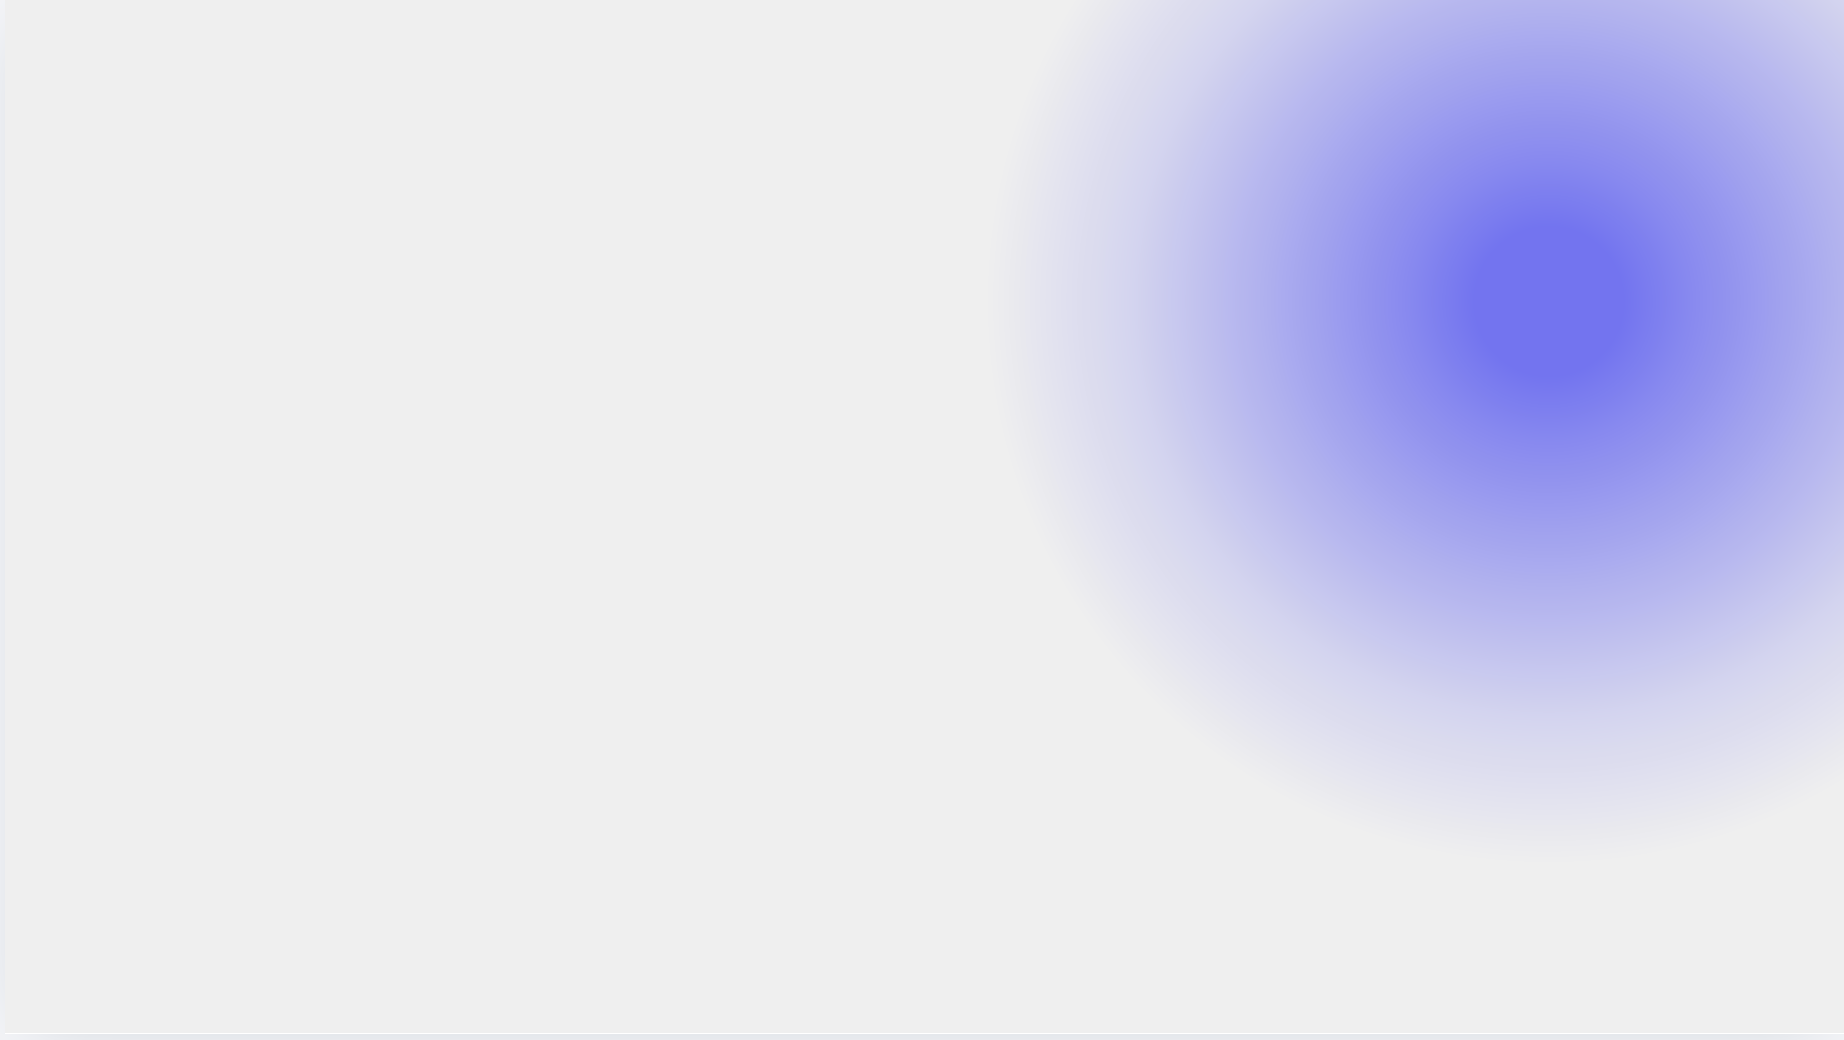
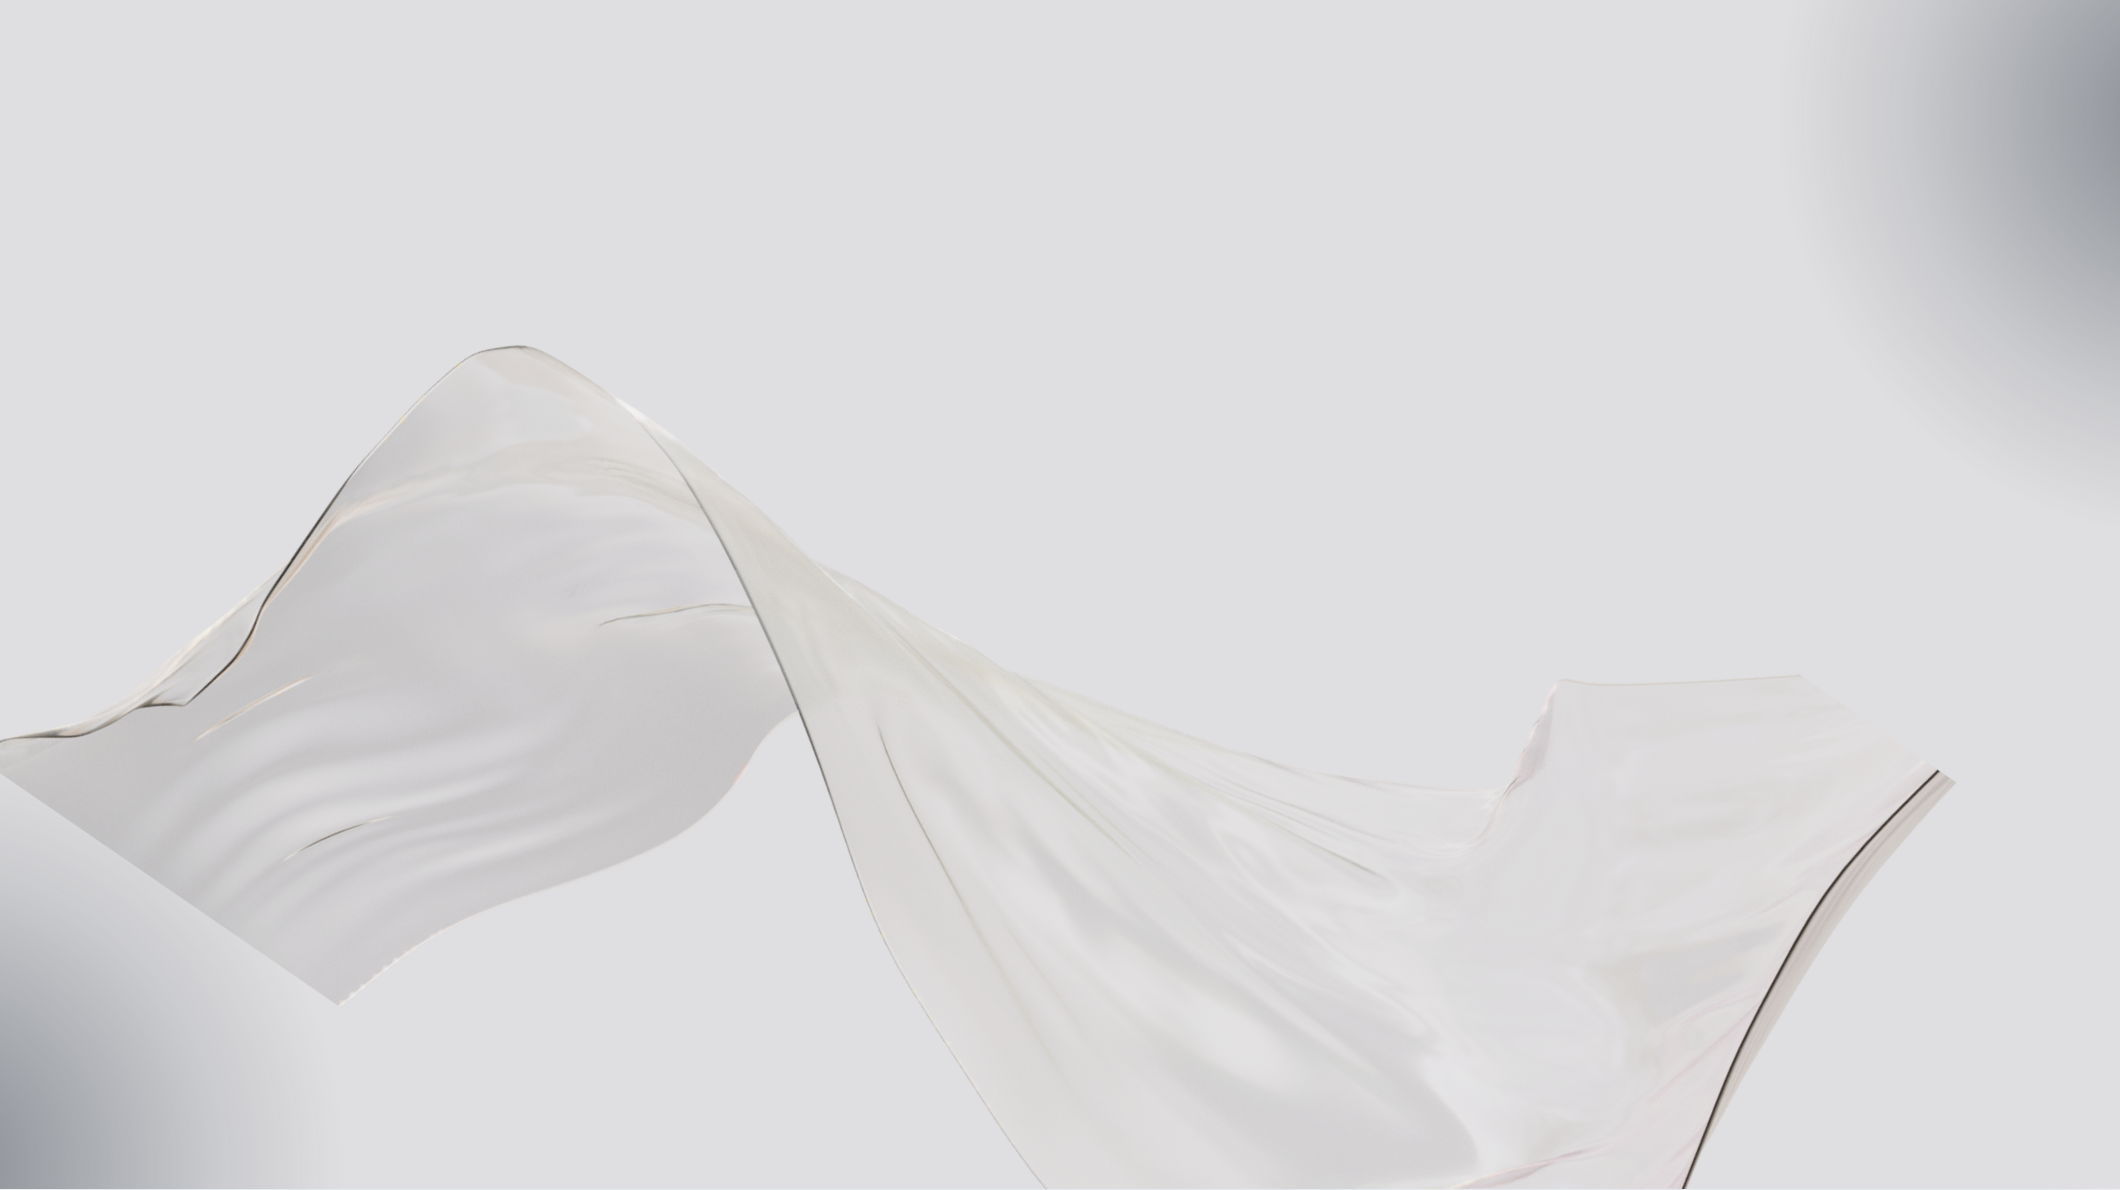
TQ

diff --git a/lib/main.dart b/lib/main.dart
@@ -115,7 +115,7 @@ class _s1State extends State<s1> {
                     color: isDark?Color.fromARGB(255, 32, 32, 32):Colors.white,
                     borderRadius: BorderRadius.circular(30),
                     boxShadow: [
-                                  BoxShadow(offset: Offset(0, 3),blurRadius: 30,spreadRadius: 6,color:  !isDark? Color.fromARGB(31, 2, 31, 111):const Color.fromARGB(31, 150, 26, 26)),
+                                  BoxShadow(offset: Offset(0, 4),blurRadius: 40,spreadRadius: 6,color:  isDark? Color.fromARGB(129, 63, 64, 50):const Color.fromARGB(31, 150, 26, 26)),
                                   
                                 ]
                   ),